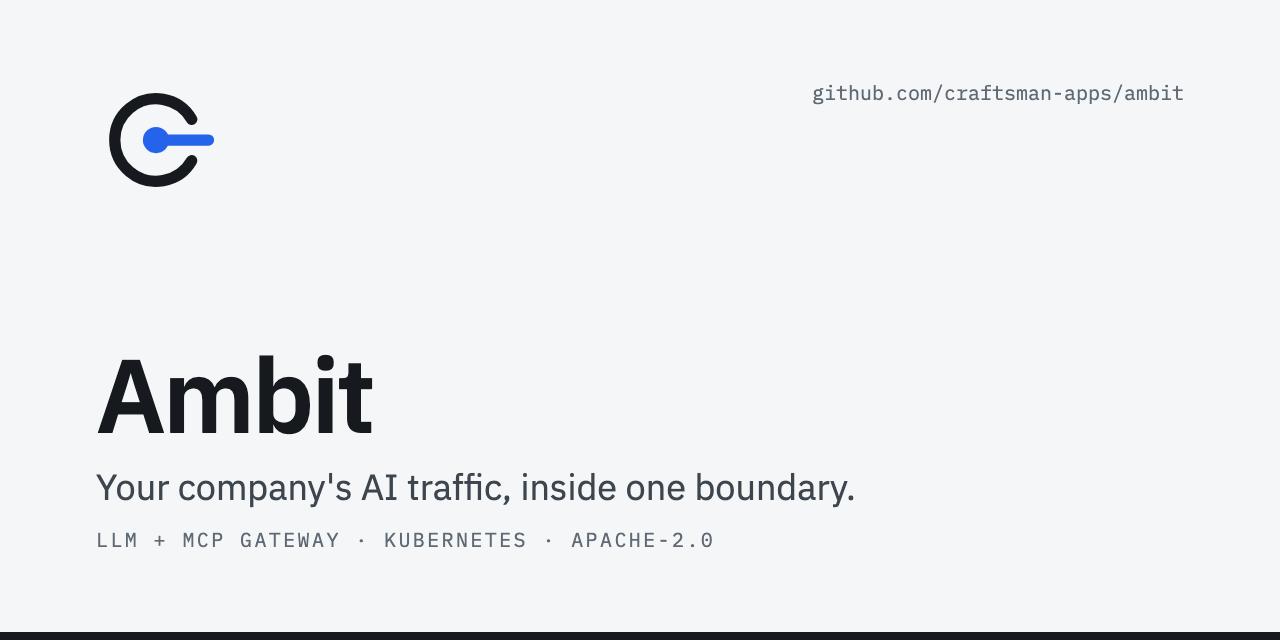
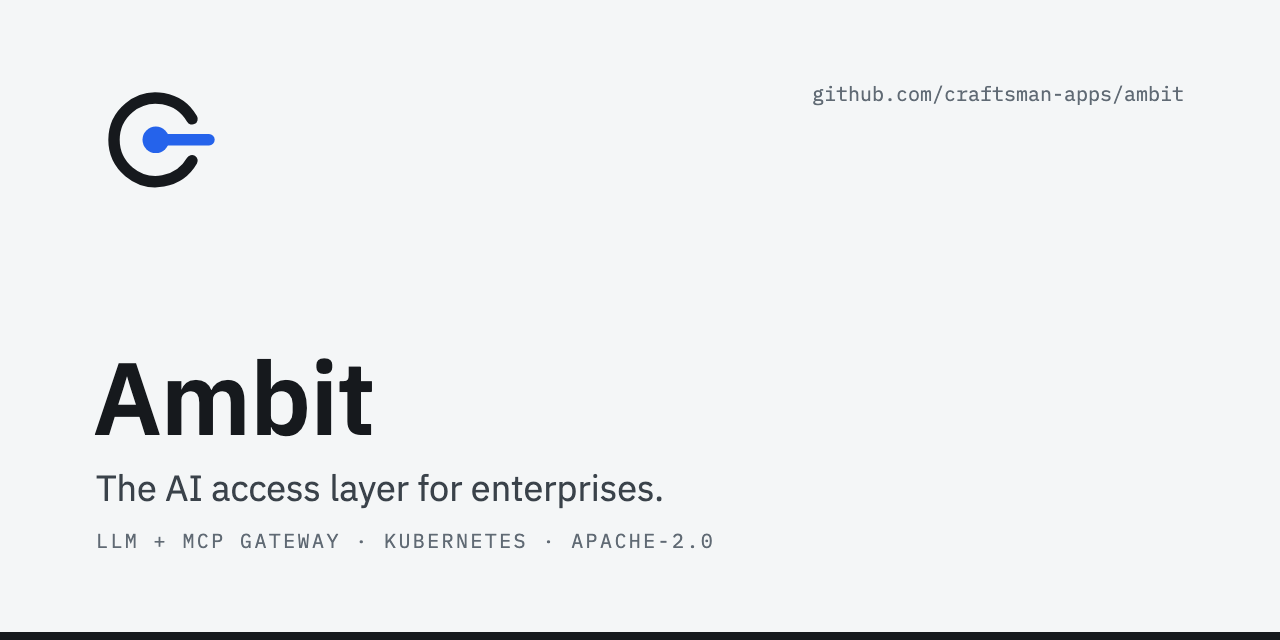
site: landing page with console screenshots; social image uses the decided tagline

diff --git a/site/src/pages/index.tsx b/site/src/pages/index.tsx
@@ -1,14 +1,114 @@
 import type {ReactNode} from 'react';
 import Layout from '@theme/Layout';
+import Link from '@docusaurus/Link';
+import ThemedImage from '@theme/ThemedImage';
+import useBaseUrl from '@docusaurus/useBaseUrl';
+import UseCases from '../components/UseCases';
+import styles from './index.module.css';
 
-// Placeholder: the landing page is built in a later step.
+const REPO = 'https://github.com/craftsman-apps/ambit';
+
+const WHY = [
+  ['Each team shares one provider API key, copied into scripts and laptops.', 'People sign in, or use a personal API key. Provider keys stay inside Ambit.'],
+  ['Anyone who has the key can use any model.', 'Access rules based on your identity provider\'s groups decide which models and MCP servers each team may use.'],
+  ['AI agents connect to work apps on their own, often through one shared service account.', 'Every MCP call passes one gateway. People connect their own app accounts, tools are checked, and personal data in results is masked.'],
+  ['The cost shows up on next month\'s bill.', 'Daily limits per group and per person, in requests or in dollars.'],
+  ['Nobody can say who sent what to which model.', 'Every call is recorded, denied calls included.'],
+  ['Someone leaves, and their keys work until someone remembers to rotate them.', 'The identity provider disables them, and their keys, sessions and app sign-ins stop at once.'],
+];
+
+const BUILT_ON = [
+  ['agentgateway', 'https://github.com/agentgateway/agentgateway', 'LLM and MCP traffic', 'Apache-2.0'],
+  ['ToolHive', 'https://github.com/stacklok/toolhive', 'Runs MCP servers', 'Apache-2.0'],
+  ['Dex', 'https://github.com/dexidp/dex', 'Sign-in and tokens', 'Apache-2.0'],
+  ['Gateway API', 'https://github.com/kubernetes-sigs/gateway-api', 'Routing objects', 'Apache-2.0'],
+  ['ClickHouse', 'https://github.com/ClickHouse/ClickHouse', 'Audit storage', 'Apache-2.0'],
+  ['OpenTelemetry Collector', 'https://github.com/open-telemetry/opentelemetry-collector-contrib', 'Audit pipeline', 'Apache-2.0'],
+  ['Valkey', 'https://github.com/valkey-io/valkey', 'Budget counters', 'BSD-3-Clause'],
+  ['envoyproxy/ratelimit', 'https://github.com/envoyproxy/ratelimit', 'Budget enforcement', 'Apache-2.0'],
+  ['MCP Go SDK', 'https://github.com/modelcontextprotocol/go-sdk', 'Preset checks and test MCP servers', 'Apache-2.0 (older code MIT)'],
+];
+
+function Themed({name, alt, className}: {name: string; alt: string; className?: string}): ReactNode {
+  return (
+    <ThemedImage
+      className={className}
+      alt={alt}
+      sources={{light: useBaseUrl(`/brand/${name}.svg`), dark: useBaseUrl(`/brand/${name}-dark.svg`)}}
+    />
+  );
+}
+
 export default function Home(): ReactNode {
   return (
-    <Layout title="Ambit" description="The AI access layer for enterprises.">
-      <main className="container margin-vert--xl">
-        <h1>Ambit</h1>
-        <p>The AI access layer for enterprises.</p>
-        <a href="/docs/">Documentation</a>
+    <Layout
+      title="The AI access layer for enterprises"
+      description="Ambit is a self-hosted gateway that decides who may use which AI models and work apps, sets spending limits, keeps an audit record, and removes access when someone leaves.">
+      <main className={styles.page}>
+        <header className={styles.hero}>
+          <div>
+            <p className={styles.eyebrow}>Alpha · v0.1.0 · Apache-2.0</p>
+            <h1>The AI access layer for enterprises.</h1>
+            <p className={styles.lead}>
+              A self-hosted gateway that decides who may use which AI models and work apps, sets spending limits,
+              keeps an audit record, and removes access when someone leaves.
+            </p>
+            <div className={styles.buttons}>
+              <Link className={styles.primary} to="/docs/quick-start">Quick start</Link>
+              <Link className={styles.secondary} href={REPO}>GitHub</Link>
+            </div>
+          </div>
+          <ThemedImage
+            className={styles.shot}
+            alt="The Ambit console, Audit page: every model call one person made, with time, model, outcome and tokens."
+            sources={{light: useBaseUrl('/img/console-light.png'), dark: useBaseUrl('/img/console-dark.png')}}
+          />
+        </header>
+
+        <section>
+          <h2>Why Ambit</h2>
+          <Themed
+            name="ambit-why"
+            className={styles.diagram}
+            alt="Without Ambit: Alice, Dan and Bob share one team API key and call models directly, an AI agent reaches work apps through a shared service account, Bob's key still works after he left, there is no record and the cost appears on next month's bill. With Ambit: everyone passes the Ambit gateway, which checks who they are, what they may use and their daily limit, records every call, and refuses Bob."
+          />
+          <div className={styles.tableWrap}>
+            <table>
+              <thead><tr><th>Without Ambit</th><th>With Ambit</th></tr></thead>
+              <tbody>{WHY.map(([a, b]) => <tr key={a}><td>{a}</td><td>{b}</td></tr>)}</tbody>
+            </table>
+          </div>
+        </section>
+
+        <section>
+          <h2>Use cases</h2>
+          <UseCases />
+        </section>
+
+        <section>
+          <h2>Architecture</h2>
+          <Themed
+            name="ambit-architecture"
+            className={styles.diagram}
+            alt="Request path: clients call one Ambit gateway, built on agentgateway, which checks the caller and their access, asks the budget service, guard, token broker and router as needed, then forwards to AI models or MCP servers and sends audit records through the OpenTelemetry Collector to ClickHouse. Setup: your identity provider signs people in through Dex and reports leavers to the console by SCIM; admins use the console, which stores Ambit objects; ambit-controller turns them into gateway configuration."
+          />
+          <p className={styles.key}>Blue is the path every request takes; grey is how admins and your identity provider set things up.</p>
+        </section>
+
+        <section>
+          <h2>Built on</h2>
+          <p>Ambit is built on these projects. Each keeps its own licence.</p>
+          <div className={styles.tableWrap}>
+            <table>
+              <thead><tr><th>Project</th><th>Use in Ambit</th><th>Licence</th></tr></thead>
+              <tbody>
+                {BUILT_ON.map(([name, href, use, licence]) => (
+                  <tr key={name}><td><Link href={href}>{name}</Link></td><td>{use}</td><td>{licence}</td></tr>
+                ))}
+              </tbody>
+            </table>
+          </div>
+        </section>
       </main>
     </Layout>
   );

diff --git a/site/src/pages/index.module.css b/site/src/pages/index.module.css
@@ -1,0 +1,28 @@
+.page { max-width: 1120px; margin: 0 auto; padding: 0 16px 72px; display: grid; gap: 56px; }
+.page section { display: grid; gap: 16px; min-width: 0; }
+.page h2 { font-size: 1.5rem; margin: 0; }
+.hero { display: grid; grid-template-columns: 1.05fr 1fr; gap: 40px; align-items: center; padding: 56px 0 8px; }
+.hero > * { min-width: 0; }
+.hero h1 { font-size: 44px; line-height: 1.15; font-weight: 600; letter-spacing: -0.01em; margin: 10px 0 14px; }
+.eyebrow { font-family: var(--ifm-font-family-monospace); font-size: 12.5px; letter-spacing: 0.08em; text-transform: uppercase; color: var(--ifm-color-emphasis-600); margin: 0; }
+.lead { font-size: 18px; line-height: 1.6; color: var(--ifm-color-emphasis-600); margin: 0; max-width: 60ch; }
+.buttons { display: flex; flex-wrap: wrap; gap: 12px; margin-top: 22px; }
+.primary, .secondary { font-size: 15.5px; font-weight: 500; padding: 10px 18px; border-radius: var(--ifm-global-radius); text-decoration: none; }
+.primary { background: var(--ifm-color-primary); color: #fff; }
+.primary:hover { background: var(--ifm-color-primary-dark); color: #fff; text-decoration: none; }
+.secondary { border: 1px solid var(--ifm-toc-border-color); color: var(--ifm-font-color-base); }
+.secondary:hover { color: var(--ifm-font-color-base); background: var(--ifm-background-surface-color); text-decoration: none; }
+.shot { width: 100%; height: auto; border: 1px solid var(--ifm-toc-border-color); border-radius: var(--ifm-global-radius); }
+.diagram { width: 100%; height: auto; }
+.key { color: var(--ifm-color-emphasis-600); margin: 0; }
+.tableWrap { overflow-x: auto; }
+.tableWrap table { display: table; width: 100%; margin: 0; }
+.cards { list-style: none; margin: 0; padding: 0; display: grid; grid-template-columns: repeat(auto-fill, minmax(220px, 1fr)); gap: 16px; }
+.card { display: block; height: 100%; padding: 16px; border: 1px solid var(--ifm-toc-border-color); border-radius: var(--ifm-global-radius); background: var(--ifm-background-surface-color); color: var(--ifm-font-color-base); text-decoration: none; }
+.card:hover { border-color: var(--ifm-color-primary); color: var(--ifm-font-color-base); text-decoration: none; }
+.card h3 { font-size: 1.05rem; margin: 0 0 6px; }
+.card p { margin: 0; font-size: 15px; color: var(--ifm-color-emphasis-600); }
+@media (max-width: 900px) {
+  .hero { grid-template-columns: 1fr; padding-top: 32px; }
+  .hero h1 { font-size: 34px; }
+}

diff --git a/site/src/components/UseCases.tsx b/site/src/components/UseCases.tsx
@@ -1,0 +1,26 @@
+import type {ReactNode} from 'react';
+import Link from '@docusaurus/Link';
+import styles from '../pages/index.module.css';
+
+const CASES = [
+  {title: 'Coding tools', to: '/docs/guides/coding-tools', text: 'Give Claude Code and Cursor a personal API key instead of a shared provider key.'},
+  {title: 'Models per team', to: '/docs/guides/models-per-team', text: 'Allow each identity-provider group only the models it needs.'},
+  {title: 'MCP servers for work apps', to: '/docs/guides/mcp-apps', text: 'Let people connect their own app accounts, and allow only the tools you choose.'},
+  {title: 'Spending limits', to: '/docs/guides/spending-limits', text: 'Set a daily limit per group and per person, in requests or in dollars.'},
+  {title: 'When someone leaves', to: '/docs/guides/someone-leaves', text: 'Disable the person in your identity provider. Their keys, sessions and app sign-ins stop at once.'},
+];
+
+export default function UseCases(): ReactNode {
+  return (
+    <ul className={styles.cards}>
+      {CASES.map((c) => (
+        <li key={c.to}>
+          <Link className={styles.card} to={c.to}>
+            <h3>{c.title}</h3>
+            <p>{c.text}</p>
+          </Link>
+        </li>
+      ))}
+    </ul>
+  );
+}
